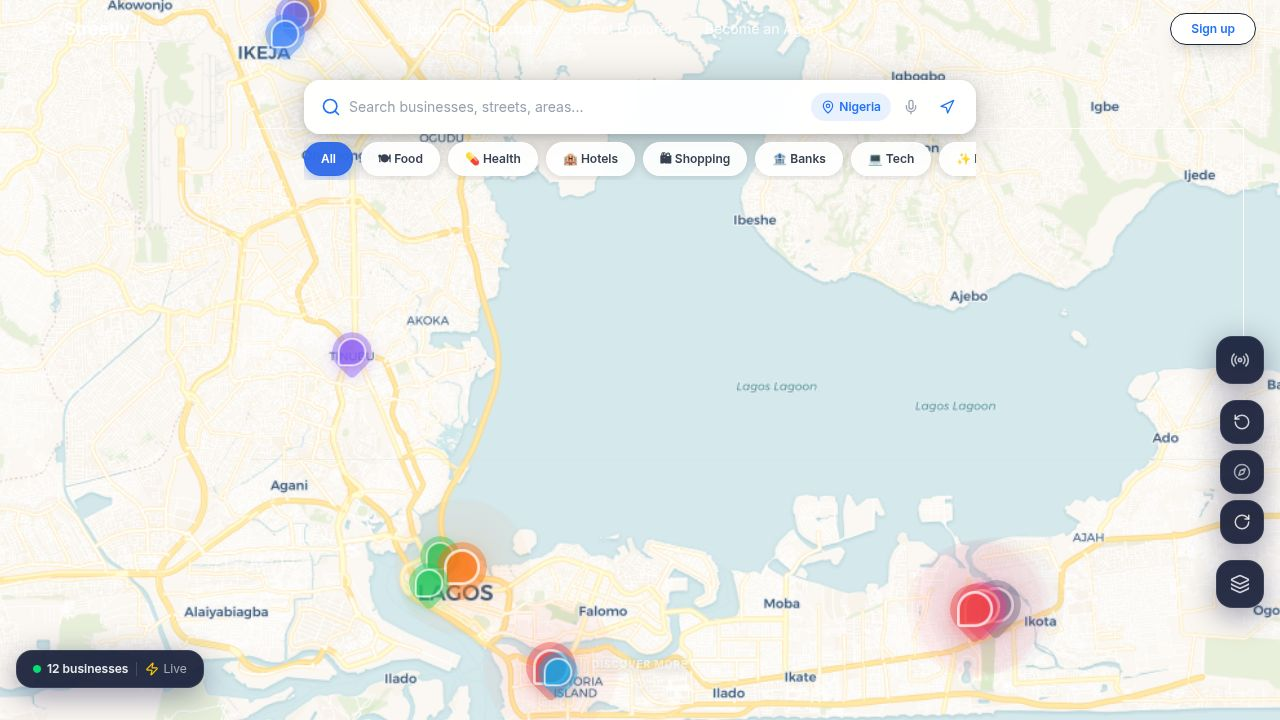
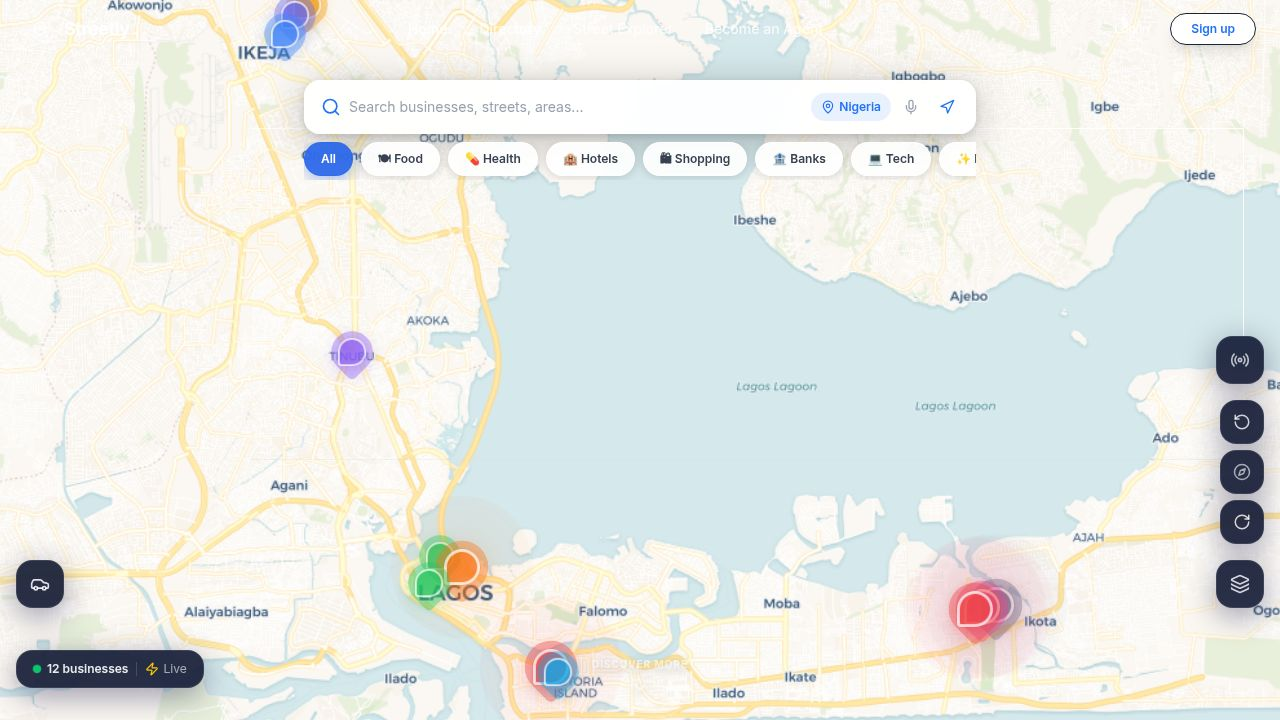
Improve drive section functionality and user experience
Update drive section to fix scrolling issues, reposition suggestions, and enhance map interaction with flyTo functionality.

Replit-Commit-Author: Agent
Replit-Commit-Session-Id: a94d00cd-eeab-402d-af46-8c8fbab64aeb
Replit-Commit-Checkpoint-Type: full_checkpoint
Replit-Commit-Event-Id: 926c1607-ab9c-440e-916c-487e1321819b
Replit-Commit-Screenshot-Url: https://storage.googleapis.com/screenshot-production-us-central1/236f4c24-861d-4f53-8e8e-1fcdf9b2f034/a94d00cd-eeab-402d-af46-8c8fbab64aeb/up62EIv
Replit-Helium-Checkpoint-Created: true

Changed region(s): [[0.0, 0.7639, 0.0625, 0.8861], [0.4062, 0.8861, 0.4375, 0.9167]]

diff --git a/artifacts/streetly/src/components/HomeMapView.tsx b/artifacts/streetly/src/components/HomeMapView.tsx
@@ -853,6 +853,8 @@ export function HomeMapView() {
   }, [driveOrigin, driveDestCoords, routeInfo, stopDriving]);
 
   const openDriveSheet = useCallback(() => {
+    /* Snap page back to top so the map view is fully visible behind the sheet */
+    window.scrollTo({ top: 0, behavior: "instant" });
     setShowDriveSheet(true);
     setDriveOriginText("");
     setDriveOrigin(null);
@@ -1356,7 +1358,7 @@ export function HomeMapView() {
             exit={{ y: "100%" }}
             transition={{ type: "spring", stiffness: 380, damping: 38 }}
             className="absolute bottom-0 left-0 right-0 z-[3000] rounded-t-3xl shadow-2xl overflow-visible"
-            style={{ background: "rgba(5,10,30,0.97)", backdropFilter: "blur(32px)", border: "1px solid rgba(255,255,255,0.08)" }}
+            style={{ background: "rgba(5,10,30,0.97)", backdropFilter: "blur(32px)", border: "1px solid rgba(255,255,255,0.08)", maxHeight: "58vh" }}
           >
             <div className="flex justify-center pt-3 pb-2">
               <div className="w-10 h-1 rounded-full bg-white/20" />
@@ -1405,11 +1407,11 @@ export function HomeMapView() {
                     <LocateFixed className={`h-4 w-4 ${driveOrigin ? "text-blue-400" : "text-white/40"}`} />
                   </button>
                 </div>
-                {/* Origin autocomplete suggestions */}
+                {/* Origin autocomplete — pops UPWARD so it stays on screen */}
                 {driveOriginSuggestions.length > 0 && !driveOrigin && (
                   <div
-                    className="absolute top-full left-0 right-0 mt-1 rounded-2xl overflow-hidden shadow-2xl z-50"
-                    style={{ background: "rgba(5,10,30,0.98)", border: "1px solid rgba(255,255,255,0.08)" }}
+                    className="absolute bottom-full left-0 right-0 mb-2 rounded-2xl overflow-hidden shadow-2xl z-[100]"
+                    style={{ background: "rgba(5,10,30,0.99)", border: "1px solid rgba(255,255,255,0.1)" }}
                   >
                     {driveOriginSuggestions.map((s, i) => (
                       <button
@@ -1418,12 +1420,16 @@ export function HomeMapView() {
                           setDriveOriginText(s.label.split(",").slice(0, 2).join(","));
                           setDriveOrigin([s.lat, s.lon]);
                           setDriveOriginSuggestions([]);
+                          mapRef.current?.flyTo([s.lat, s.lon], 14, { duration: 1.2 });
                           if (driveDestCoords) await fetchRoute([s.lat, s.lon], driveDestCoords);
                         }}
                         className="w-full flex items-center gap-3 px-4 py-3 hover:bg-white/5 text-left border-b border-white/5 last:border-0"
                       >
-                        <MapPin className="h-4 w-4 text-white/30 flex-shrink-0" />
-                        <span className="text-sm text-white/80 truncate">{s.label}</span>
+                        <MapPin className="h-4 w-4 text-blue-400/60 flex-shrink-0" />
+                        <div className="min-w-0">
+                          <p className="text-sm text-white/90 truncate font-medium">{s.label.split(",")[0]}</p>
+                          <p className="text-xs text-white/40 truncate">{s.label.split(",").slice(1, 3).join(",")}</p>
+                        </div>
                       </button>
                     ))}
                   </div>
@@ -1446,7 +1452,6 @@ export function HomeMapView() {
                       setRouteInfo(null);
                     }}
                     placeholder="Where to?"
-                    autoFocus
                     className="flex-1 bg-transparent outline-none text-sm text-white placeholder:text-white/30"
                   />
                   {driveDest && (
@@ -1456,11 +1461,11 @@ export function HomeMapView() {
                   )}
                 </div>
 
-                {/* Nominatim suggestions dropdown */}
+                {/* Destination suggestions — pops UPWARD to stay on screen */}
                 {driveSuggestions.length > 0 && !driveDestCoords && (
                   <div
-                    className="absolute top-full left-0 right-0 mt-1 rounded-2xl overflow-hidden shadow-2xl z-50"
-                    style={{ background: "rgba(5,10,30,0.98)", border: "1px solid rgba(255,255,255,0.08)" }}
+                    className="absolute bottom-full left-0 right-0 mb-2 rounded-2xl overflow-hidden shadow-2xl z-[100]"
+                    style={{ background: "rgba(5,10,30,0.99)", border: "1px solid rgba(255,255,255,0.1)" }}
                   >
                     {driveSuggestions.map((s, i) => (
                       <button
@@ -1471,12 +1476,16 @@ export function HomeMapView() {
                           setDriveDestName(s.label.split(",")[0]);
                           setDriveDestCoords([s.lat, s.lon]);
                           setDriveSuggestions([]);
+                          mapRef.current?.flyTo([s.lat, s.lon], 14, { duration: 1.2 });
                           if (driveOrigin) await fetchRoute(driveOrigin, [s.lat, s.lon]);
                         }}
                         className="w-full flex items-center gap-3 px-4 py-3 hover:bg-white/5 text-left border-b border-white/5 last:border-0"
                       >
-                        <MapPin className="h-4 w-4 text-white/30 flex-shrink-0" />
-                        <span className="text-sm text-white/80 truncate">{s.label}</span>
+                        <Flag className="h-4 w-4 text-orange-400/60 flex-shrink-0" />
+                        <div className="min-w-0">
+                          <p className="text-sm text-white/90 truncate font-medium">{s.label.split(",")[0]}</p>
+                          <p className="text-xs text-white/40 truncate">{s.label.split(",").slice(1, 3).join(",")}</p>
+                        </div>
                       </button>
                     ))}
                   </div>